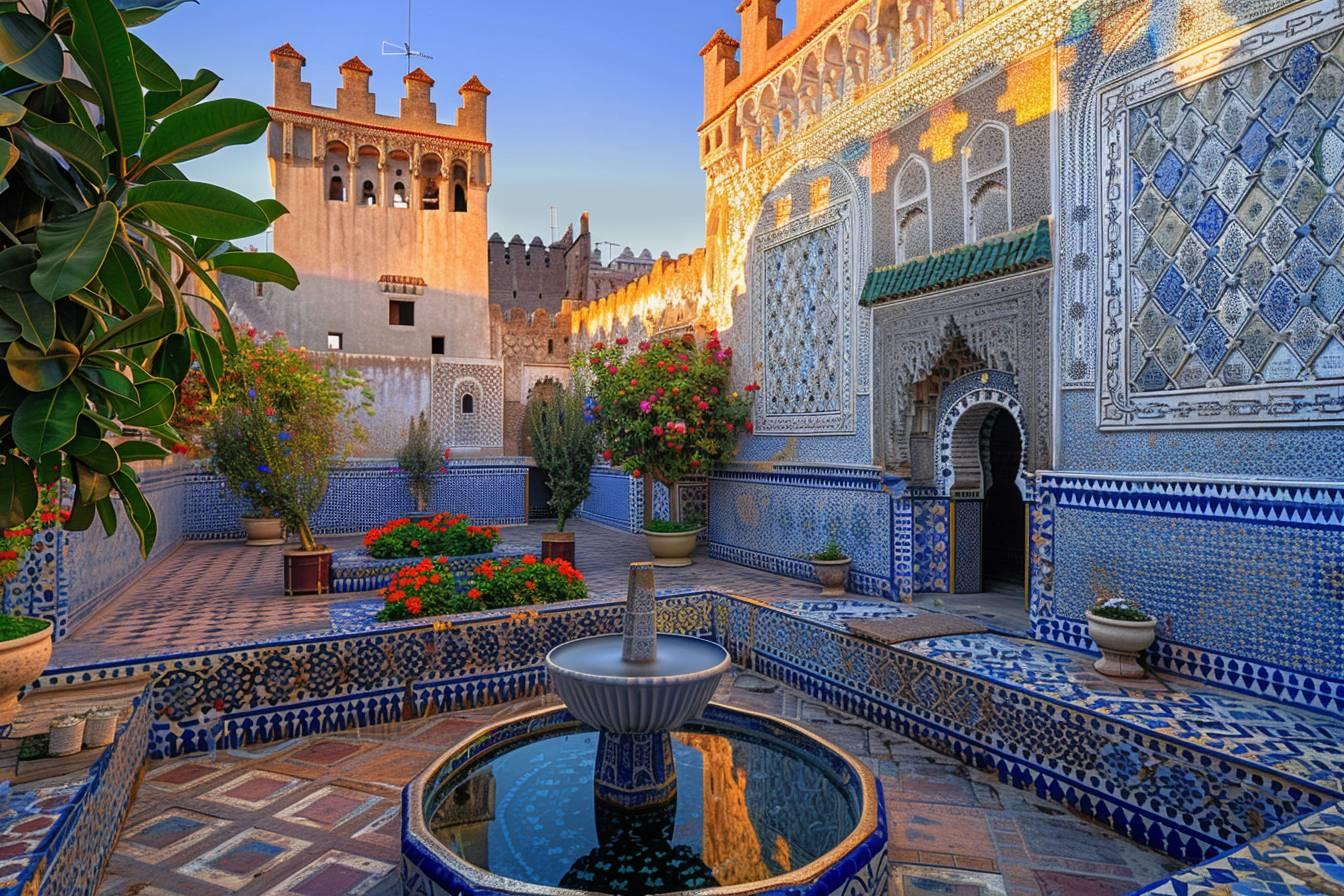
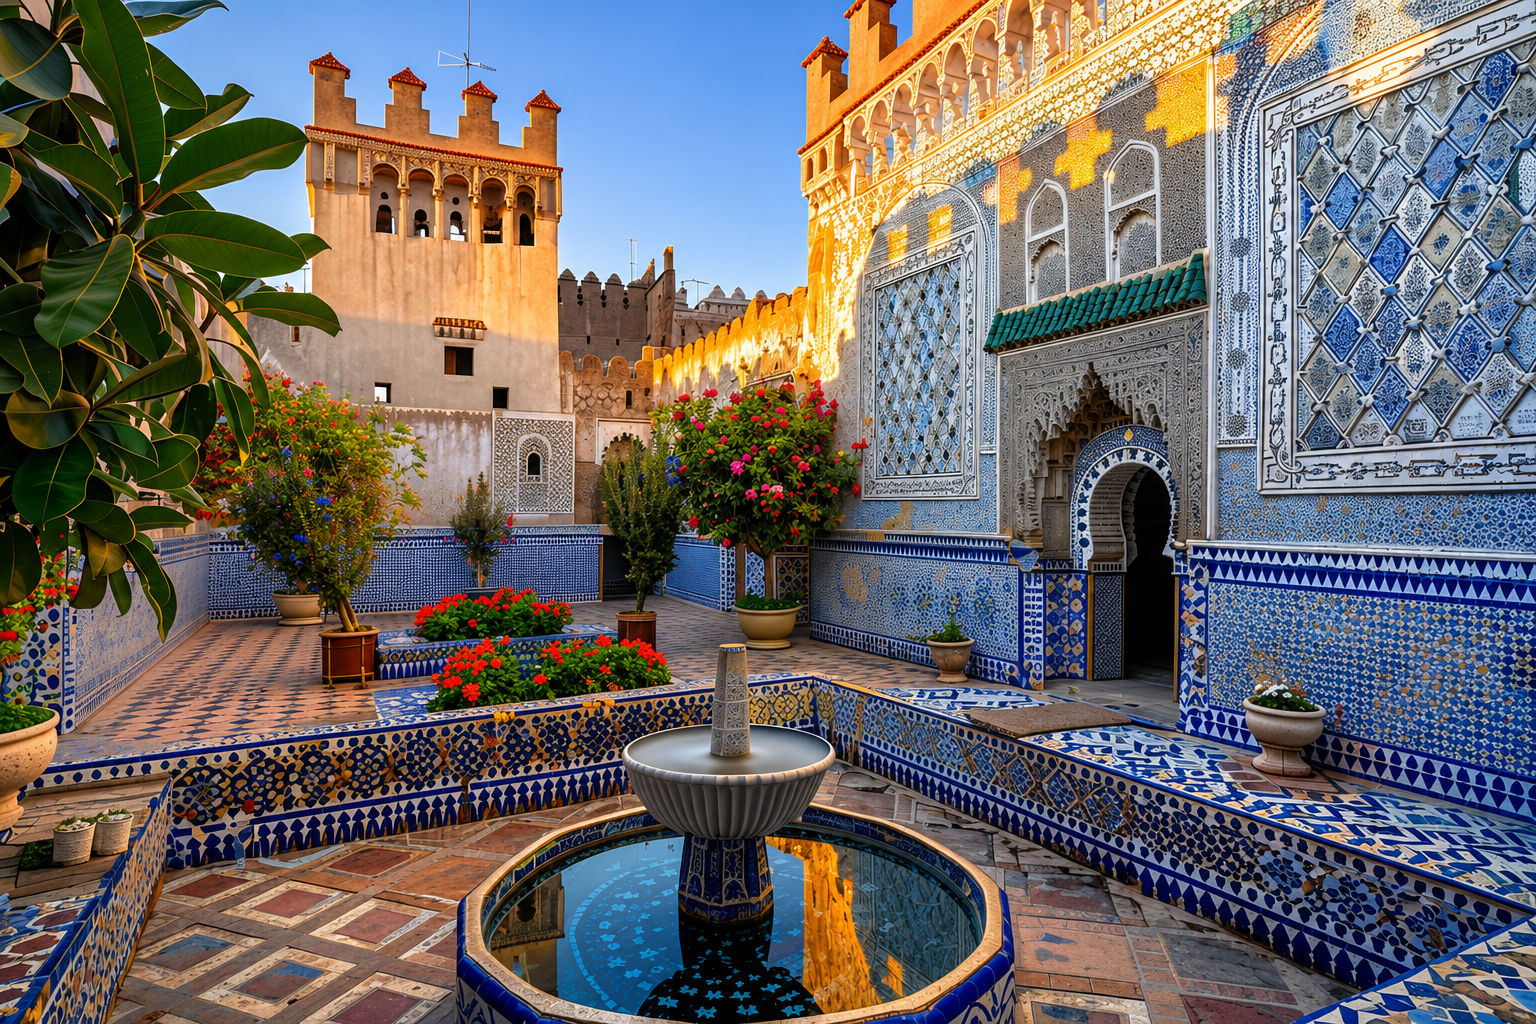
update rabat et chefchaoun suppression images inutiles

diff --git a/projet-maroc/chefchaoun/chefchaoun.html b/projet-maroc/chefchaoun/chefchaoun.html
@@ -18,6 +18,9 @@
 <link rel="stylesheet" href="https://unpkg.com/leaflet@1.9.4/dist/leaflet.css"/>
 
 <style>
+  /* ═══════════════════════════════════════════
+     DÉBUT DU CSS
+═══════════════════════════════════════════ */
 /* =====================================================
    CHEFCHAOUEN - Feuille de style principale
 ===================================================== */
@@ -804,9 +807,22 @@ footer{
 }
 </style>
 
+<!-- ═══════════════════════════════════════════
+     FIN DU CSS 
+═══════════════════════════════════════════ -->
+
 </head>
+
+<!-- ═══════════════════════════════════════════
+     DÉBUT DU HTML
+═══════════════════════════════════════════ -->
+
 <body>
-<!-- On ouvre le corps de la page, tout le contenu visible est ici -->
+  <!-- body : corps de la page, tout ce que l'utilisateur voit -->
+
+<!-- ══ TOP BAR ══ -->
+<!-- Barre d'information en haut de la page -->
+<div class="top-bar">Chefchaouen — La Perle Bleue · Région Tanger-Tétouan-Al Hoceima</div>
 
 
 <!-- ══ NAVBAR ══ -->
@@ -1476,6 +1492,9 @@ footer{
 <!-- Leaflet.js : bibliothèque cartographique chargée avant notre JS -->
 <script src="https://unpkg.com/leaflet@1.9.4/dist/leaflet.js"></script>
 
+<!-- ═══════════════════════════════════════════
+     FIN DU HTML — DÉBUT DU JAVASCRIPT
+═══════════════════════════════════════════ -->
 <script>
 /* ══ MODAL DATA ══ */
 /* Objet JavaScript contenant toutes les données pour les modales.
@@ -1895,7 +1914,7 @@ document.querySelectorAll('.nav-links a').forEach(link => {
   link.addEventListener('click', () => {
     /* Quand on clique sur un lien du menu mobile... */
     document.querySelector('.nav-links').classList.remove('open');
-    /* On ferme le menu (important sur mobile pour qu'il disparaisse après la navigation) */
+    /*  ferme le menu (important sur mobile pour qu'il disparaisse après la navigation) */
   });
 });
 
@@ -1907,10 +1926,14 @@ document.addEventListener('click', function(e){
   if(!nav.contains(e.target) && !btn.contains(e.target)){
     /* Si le clic n'est pas dans le menu NI sur le bouton hamburger... */
     nav.classList.remove('open');
-    /* On ferme le menu (clic en dehors = fermeture) */
+    /*  ferme le menu (clic en dehors = fermeture) */
   }
 });
 </script>
+
+<!-- ═══════════════════════════════════════════
+     FIN DU JAVASCRIPT 
+═══════════════════════════════════════════ -->
 
 </body>
 <!-- Fin du corps de la page -->

diff --git a/projet-maroc/rabat/rabat.html b/projet-maroc/rabat/rabat.html
@@ -16,13 +16,17 @@
 <!--  charge le CSS de la bibliothèque Leaflet pour afficher la carte interactive -->
 
 <style>
+
+  /* ═══════════════════════════════════════════
+     DÉBUT DU CSS
+═══════════════════════════════════════════ */
 /* =====================================================
    RABAT — Feuille de style principale
 ===================================================== */
 
 :root {
   /* :root cible l'élément racine du document (la balise html),
-     on y déclare des variables CSS réutilisables partout dans la feuille de style */
+      déclare des variables CSS réutilisables partout dans la feuille de style */
   --green:      #1B5E3B;
   /* Variable : couleur verte principale utilisée pour les boutons, textes importants */
   --green-mid:  #2E7D52;
@@ -911,12 +915,21 @@ footer{
   /* Moins d'espace entre les liens du footer */
 }
 </style>
+<!-- ═══════════════════════════════════════════
+     FIN DU CSS 
+═══════════════════════════════════════════ -->
+
 </head>
 
 
-<body>
-<!-- On ouvre le corps de la page, tout le contenu visible est ici -->
+<!-- ═══════════════════════════════════════════
+     DÉBUT DU HTML
+═══════════════════════════════════════════ -->
 
+<body>
+<!-- body : corps de la page, tout ce que l'utilisateur voit -->
+<!-- TOP BAR -->
+<div class="top-bar"> Rabat — Capitale Royale du Maroc · Patrimoine Mondial UNESCO</div>
 
 <!-- NAVBAR -->
 <!-- Barre de navigation principale qui reste visible en haut de la page -->
@@ -1607,6 +1620,9 @@ footer{
 <!-- Chargement de la librairie JavaScript Leaflet pour la carte interactive -->
 <script src="https://unpkg.com/leaflet@1.9.4/dist/leaflet.js"></script>
 
+<!-- ═══════════════════════════════════════════
+     FIN DU HTML — DÉBUT DU JAVASCRIPT
+═══════════════════════════════════════════ -->
 <script>
 /* ══ MODAL DATA ══ */
 /* Objet JavaScript contenant toutes les données pour les modales Clé = identifiant unique 
@@ -2042,6 +2058,10 @@ document.addEventListener('click',function(e){
   }
 });
 </script>
+
+<!-- ═══════════════════════════════════════════
+     FIN DU JAVASCRIPT 
+═══════════════════════════════════════════ -->
 
 </body>
 <!-- Fin du corps de la page -->